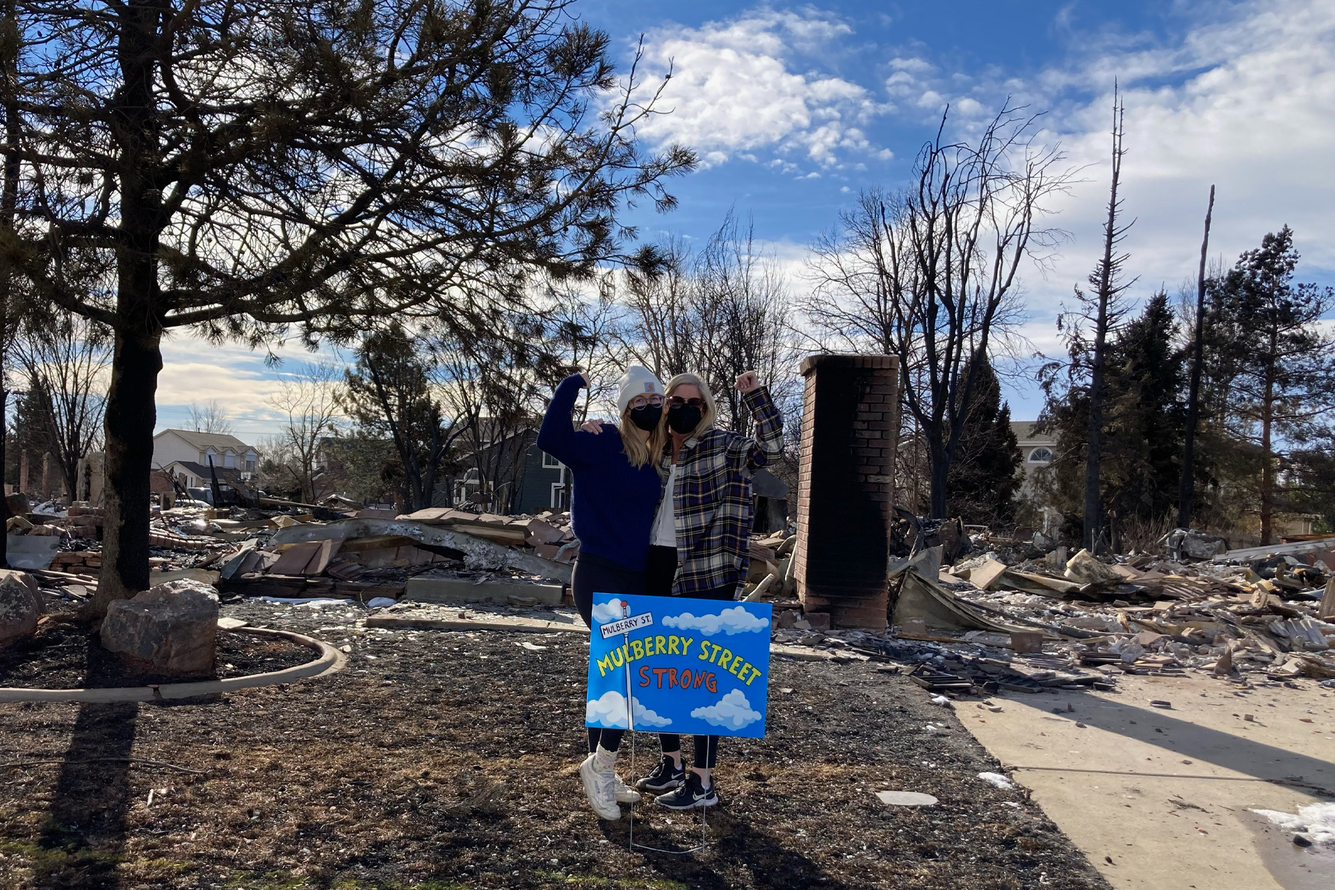
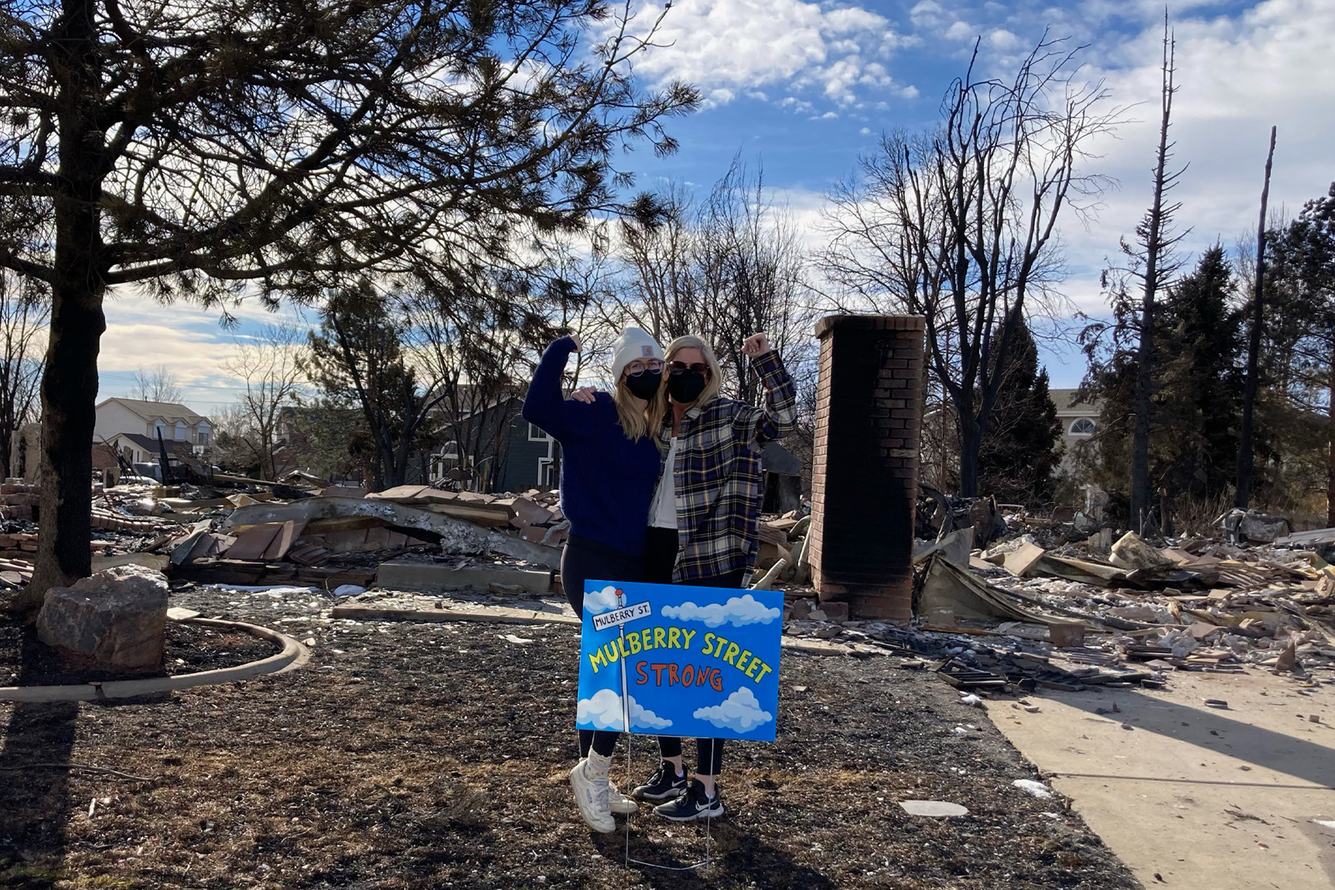
k

diff --git a/media-main/submenu/mulberryst.html b/media-main/submenu/mulberryst.html
@@ -33,6 +33,29 @@
           <img class="project-img-large" src="../../img/projects/mulberry/mulberry-cheer.jpg">
         </a>
         <div class="project-desc">Mulberry Street</div>
+      </div>
+    </div>
+    <div class="project-img-container">
+      <div class="project-img-item">
+        <a href="../../img/projects/mulberry/library-artifacts.jpg" target="_self">
+          <img class="project-img-large" src="../../img/projects/mulberry/library-artifacts.jpg">
+        </a>
+        <div class="project-desc">Final Design</div>
+      </div>
+    </div>
+    <div class="project-img-container">
+      <div class="project-img-item">
+        <a href="../../img/projects/mulberry/artifact1.jpg" target="_self">
+          <img class="project-img-medium" src="../../img/projects/mulberry/artifact1.jpg">
+        </a>
+        <div class="project-desc">Grass Roots Rally</div>
+      </div>
+      <div class="project-img-item">
+        <a href="../../img/projects/mulberry/artifact2.jpg" target="_self">
+          <img class="project-img-medium" src="../../img/projects/mulberry/artifact2.jpg">
+        </a>
+        <div class="project-desc">Concept & Inspiration</div>
+      </div>
     </div>
     <div class="project-img-container">
       <div class="project-img-item">

diff --git a/css/desktop.css b/css/desktop.css
@@ -399,7 +399,7 @@
   }
 
   .project-img-large {
-    width: 600px;
+    width: 700px;
     margin-top: 30px;
     margin-bottom: 10px;
     object-fit: contain;
